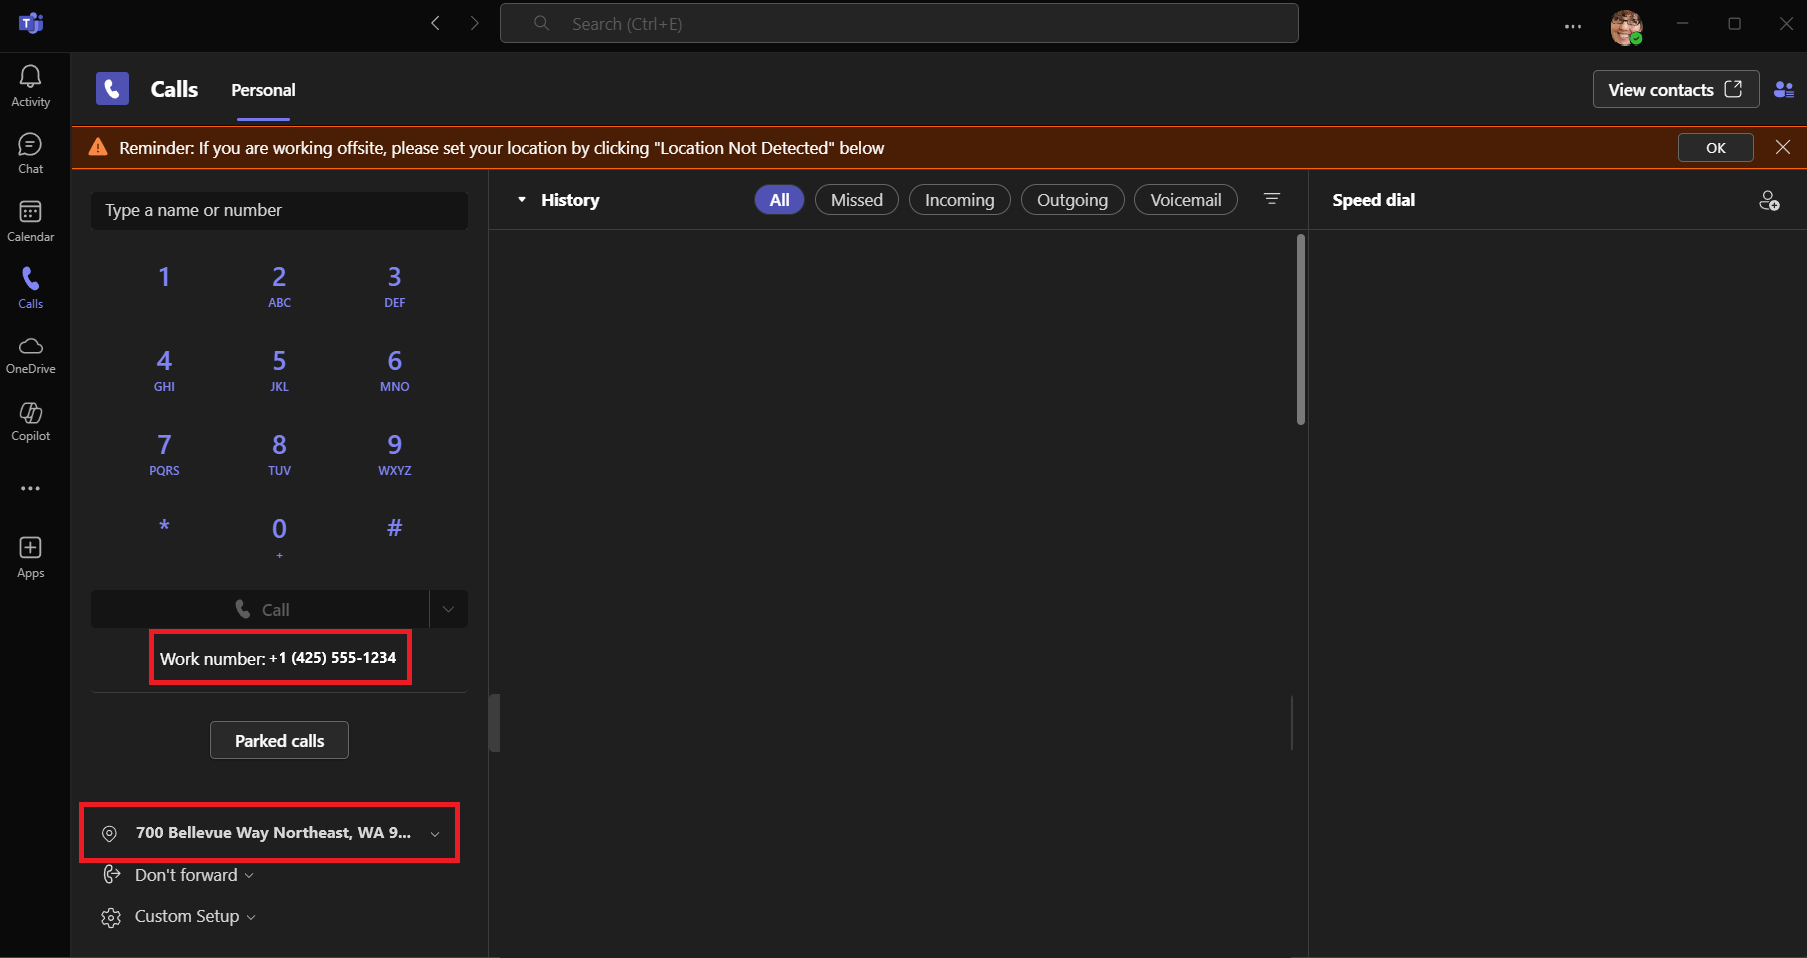
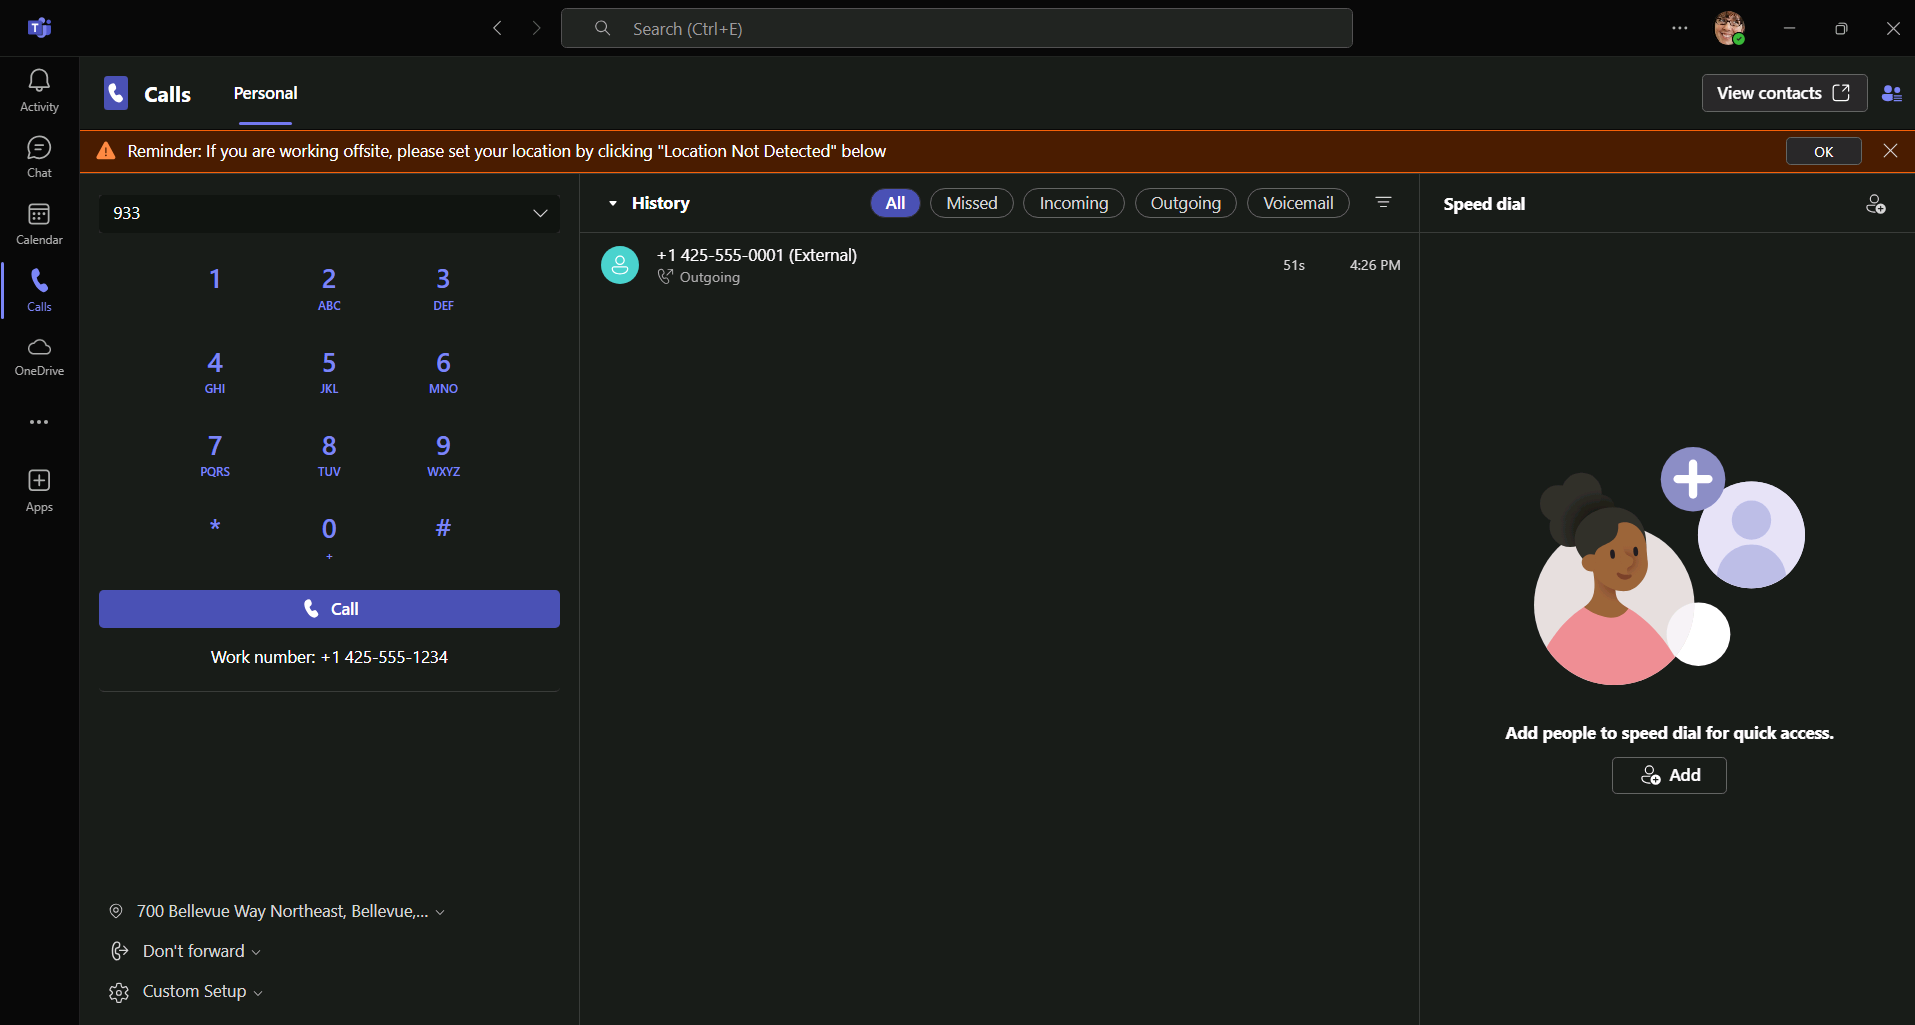
Final Lab 3

diff --git a/Instructions/Labs/LAB_AK_03_expand_environment_direct_routing.md b/Instructions/Labs/LAB_AK_03_expand_environment_direct_routing.md
@@ -787,7 +787,7 @@ In this task, you will validate that PIDF/LO information from the LIS database i
 
 1. On the **Web Connection** window, provide the following configuration and then click **Connect:**
 
-	- **Address** the IP address or fqdn of your Azure SBC
+	- **Address** the IP address or FQDN of your Azure SBC
 
 	- **Username** sbcadmin
 
@@ -797,6 +797,29 @@ In this task, you will validate that PIDF/LO information from the LIS database i
 
 1. Now that the syslog capture is running, open the Microsoft Teams client, click on **Calls** and you should see the Belleview Address previously created.
 
-    ![Screenshot of the Microsoft Teams Client, showing the emergency Address](./Linked_Image_Files/M03_L03_E05_T02_03.png)
+    ![Screenshot of the Microsoft Teams Client, showing the Emergency Address](./Linked_Image_Files/M03_L03_E05_T02_03.png)
 
-1. Dial **933** in Microsoft Teams and then click **Call**. 
+    > [!NOTE]
+    > If you see "Location Not Detected" You can either set your location manually for this test or restart your Microsoft Teams client. The policies created previously can take some time to take effect.
+
+1. Dial **933** in Microsoft Teams and then verify that +1933 does not show in the translation. If it does, restart the Microsoft Teams client.
+
+![Screenshot of the Microsoft Teams Client, showing that 933 has no +1 in front](./Linked_Image_Files/M03_L03_E05_T02_04.png)
+
+1. Once you have confirmed that 933 looks correct, click **Call**. A New call window will open stating that an emergency call is in progress showing your number and address. hang up the call after 5 seconds.
+
+![Screenshot of the Microsoft Teams Client, showing the emergency call in progress](./Linked_Image_Files/M03_L03_E05_T02_05.png)
+
+1. On **MS721-CLIENT02** open the AudioCodes Syslog Viewer and press the **Snowflake** button at the top to pause capture. Then Press the **Blue I** to open the sip ladder.
+
+![Screenshot of Syslog viewer, showing which buttons to press](./Linked_Image_Files/M03_L03_E05_T02_06.png)
+
+1. In the **SIP Flow Diagram** Window, select **Show Calls** in the dropdown on the middle-right. Then select the call to 933 above this. In the message window below, scroll down and you will see XML PIDF/LO XML Data.
+
+![Screenshot of Syslog viewer, showing the XML Data](./Linked_Image_Files/M03_L03_E05_T02_07.png)
+
+1. If you continue scrolling right, you will see the XML encoded version of your Emergency Address.
+
+![Screenshot of Syslog viewer, showing the expanded XML Data](./Linked_Image_Files/M03_L03_E05_T02_08.png)
+
+Congratulations, you have just validated that the SBC is recieving PIDF/LO information when Emergency calls are being placed and that required policies are working as expected.
